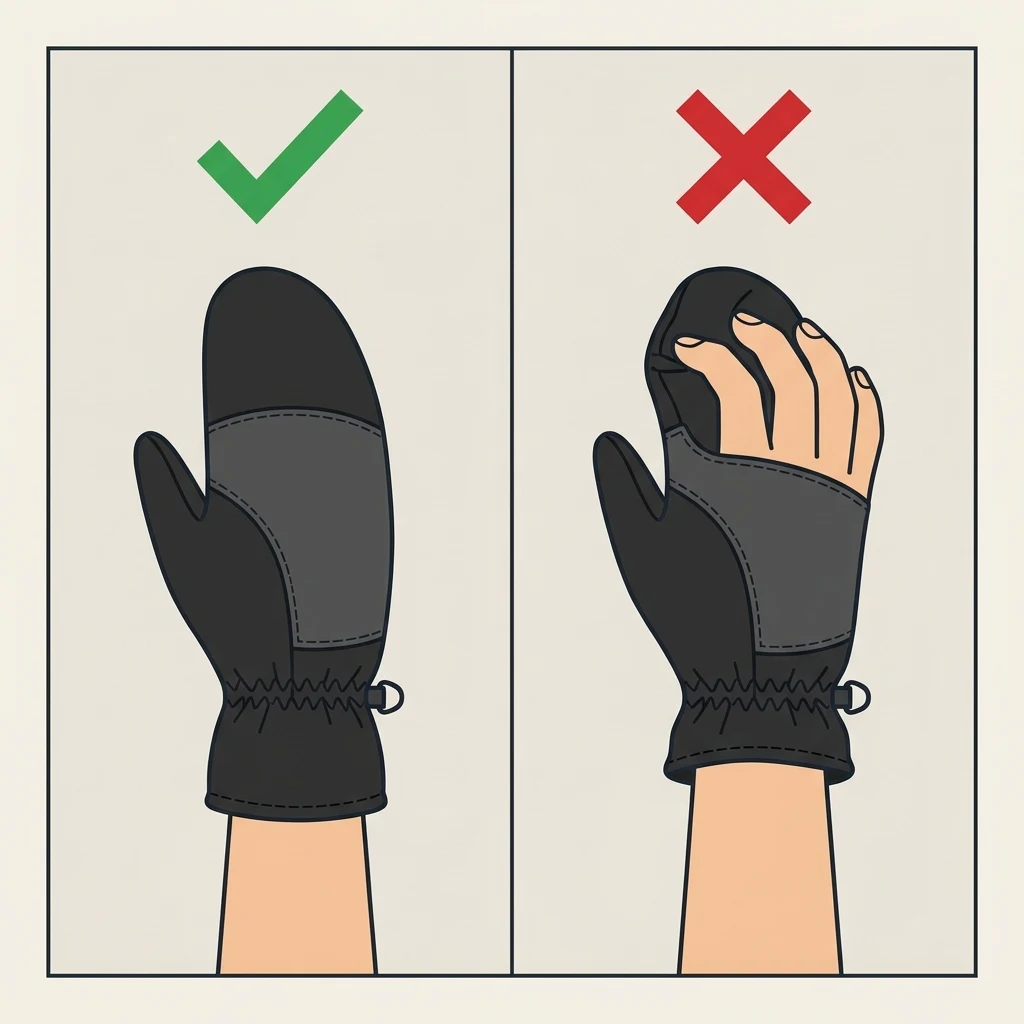
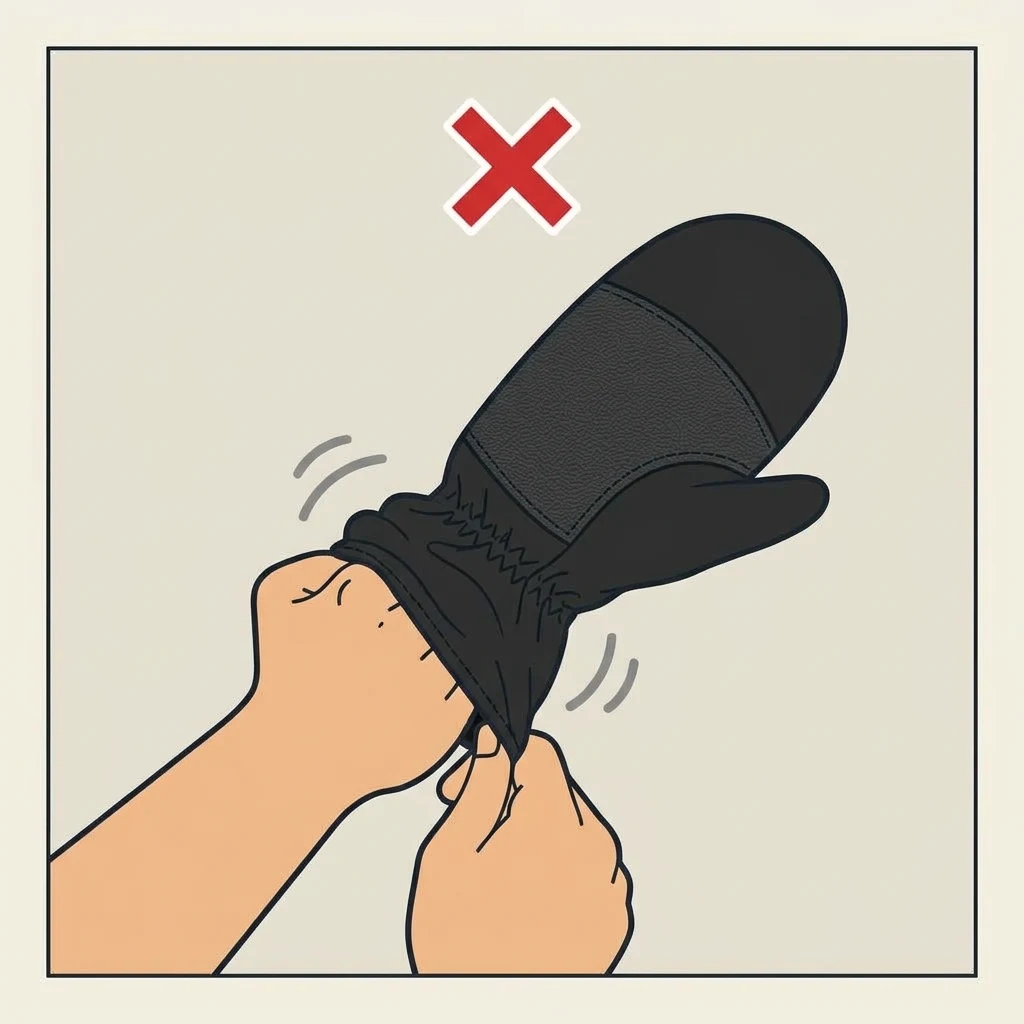
Guide des tailles sous les yeux de l'atelier, et planche d'essai des mitaines refaite
LE GUIDE DES TAILLES NE SE VOYAIT PAS LÀ OÙ L'ON COCHE. Dans la liste à
cocher, le titre du point mène à la page de sa planche — et cette page ne
montrait que les dessins. Le tableau n'apparaissait que sur la page du
protocole, que l'ouvrière n'ouvre pas en mesurant. La page de la planche
affiche maintenant, en grand et avant les dessins, l'image de référence du
point dont on vient (le lien porte `point=`) : quatre mitaines partagent la
planche, c'est le point qui porte le guide.

LE GUIDE EST HÉBERGÉ PAR LE MRP, plus lu au CDN de la boutique : c'est
l'outil de mesure de l'essai, il ne doit dépendre ni du site ni de la ligne.
Le texte du point ne renvoie plus à « lasclay.com » : il désigne l'image
ci-dessous et ses deux flèches, orange (longueur) et bleue (jointures).

LE PANNEAU 4 DE L'ESSAI MONTRAIT UNE MAIN QUI TRAVERSE LA MITAINE. Refait :
une personne qui n'arrive pas à l'enfiler, la main bloquée au poignet. Un
cinquième panneau montre ce que coûte une taille ratée : le colis renvoyé et
l'argent remboursé. Les planches acceptent donc plus de quatre panneaux
(quatre au moins, sans trou) ; bande, page et empreinte de cache suivent le
nombre réel.

Claude-Session: https://claude.ai/code/session_01954X9VVgP1YHDjc7WYAugY

diff --git a/mrp/pictos.js b/mrp/pictos.js
@@ -534,20 +534,28 @@ const panneau = (d, i, classe = 'pi-p') =>
 // leurs vignettes sont là — une série trouée se lit plus mal qu'un pictogramme.
 const DOSSIER = require('node:path').join(__dirname, 'statique', 'planches');
 
+// Combien de panneaux porte chaque planche dessinée. Quatre au moins — une
+// planche incomplète ne s'affiche pas —, davantage si le geste le demande :
+// l'essai des mitaines finit sur ce que coûte une taille ratée, le retour et le
+// remboursement, et le couper pour tenir en quatre effacerait la raison du test.
+const PANNEAUX = new Map();
 const DESSINS = (() => {
   const fs = require('node:fs');
   const vus = new Set();
   let fichiers = [];
   try { fichiers = fs.readdirSync(DOSSIER); } catch { return vus; }
   const cles = new Set([...Object.keys(PLANCHES),
-    ...fichiers.map(f => f.replace(/-\d(?:-mini)?\.webp$/, ''))]);
+    ...fichiers.map(f => f.replace(/-\d+(?:-mini)?\.webp$/, ''))]);
+  const present = (k, i) =>
+    fichiers.includes(`${k}-${i}.webp`) && fichiers.includes(`${k}-${i}-mini.webp`);
   for (const k of cles) {
-    const complet = [1, 2, 3, 4].every(i =>
-      fichiers.includes(`${k}-${i}.webp`) && fichiers.includes(`${k}-${i}-mini.webp`));
-    if (complet) vus.add(k);
+    let n = 0;
+    while (present(k, n + 1)) n++;
+    if (n >= 4) { vus.add(k); PANNEAUX.set(k, n); }
   }
   return vus;
 })();
+const etapes = (k) => Array.from({ length: PANNEAUX.get(k) }, (_, i) => i);
 
 // Les images gardent leur nom d'une génération à l'autre : sans empreinte, un
 // navigateur qui a déjà la planche garderait l'ancienne après une correction.
@@ -555,7 +563,7 @@ const VERSION_PL = (() => {
   const fs = require('node:fs');
   const h = require('node:crypto').createHash('sha256');
   for (const k of [...DESSINS].sort())
-    for (let i = 1; i <= 4; i++) {
+    for (let i = 1; i <= PANNEAUX.get(k); i++) {
       const f = require('node:path').join(DOSSIER, `${k}-${i}.webp`);
       h.update(k + i + fs.statSync(f).size + fs.statSync(f).mtimeMs);
     }
@@ -571,7 +579,7 @@ function planche(titre, { href = null } = {}) {
   const k = cle(titre);
   if (!k) return '';
   const dessine = DESSINS.has(k);
-  const p = PLANCHES[k] || (dessine ? [0, 1, 2, 3] : null);
+  const p = PLANCHES[k] || (dessine ? etapes(k) : null);
   if (!p) return '';
   const corps = p.map((d, i) => {
     const vue = dessine ? img(k, i + 1, true) : panneau(d, i);
@@ -595,11 +603,11 @@ function plancheBD(titre) {
   const k = cle(titre);
   if (!k) return '';
   const dessine = DESSINS.has(k);
-  const p = PLANCHES[k] || (dessine ? [0, 1, 2, 3] : null);
+  const p = PLANCHES[k] || (dessine ? etapes(k) : null);
   if (!p) return '';
   return `<ol class="bd">${p.map((d, i) => `<li class="bd-p" id="p${i + 1}">
     ${dessine ? img(k, i + 1, false) : panneau(d, i, 'pi-g')}</li>`).join('')}</ol>`;
 }
 
-module.exports = { DESSINS, VERSION_PL, PLANCHES, PAR_TITRE, RUPTURES, planche, plancheBD,
+module.exports = { DESSINS, PANNEAUX, VERSION_PL, PLANCHES, PAR_TITRE, RUPTURES, planche, plancheBD,
   cle, empreinte };

diff --git a/mrp/tests/visuel.js b/mrp/tests/visuel.js
@@ -357,9 +357,29 @@ console.log('\n  Silhouettes, anneaux et images\n');
   // geste manquant est justement celui qu'on ne devine pas.
   const dos = require('node:path').join(__dirname, '..', 'statique', 'planches');
   const sur = fs.existsSync(dos) ? fs.readdirSync(dos) : [];
-  t('toute planche annoncée dessinée a ses quatre panneaux et ses vignettes',
-    [...PIC.DESSINS].every(k => [1, 2, 3, 4].every(i =>
-      sur.includes(`${k}-${i}.webp`) && sur.includes(`${k}-${i}-mini.webp`))));
+  t('toute planche annoncée dessinée a au moins quatre panneaux et leurs vignettes',
+    [...PIC.DESSINS].every(k => PIC.PANNEAUX.get(k) >= 4
+      && Array.from({ length: PIC.PANNEAUX.get(k) }, (_, i) => i + 1).every(i =>
+        sur.includes(`${k}-${i}.webp`) && sur.includes(`${k}-${i}-mini.webp`))));
+
+  // L'essai des mitaines finit sur ce que coûte une taille ratée : le retour
+  // et le remboursement. Ce cinquième panneau ne doit pas être coupé par une
+  // bande ou une page restées à quatre.
+  const essai = 'Essai par une personne de chaque taille, mains mesurées';
+  t('une planche à cinq panneaux les montre tous, dans la bande et sur la page',
+    PIC.PANNEAUX.get('essai_mitaine') === 5
+    && (PIC.planche(essai).match(/class="pi-i"/g) || []).length === 5
+    && PIC.plancheBD(essai).includes('id="p5"'));
+
+  // Le guide des tailles vit sur le POINT, pas sur la planche. La liste à
+  // cocher mène à la page de la planche : si cette page ne montre que les
+  // dessins, l'ouvrière n'a pas le tableau sous les yeux au moment de mesurer.
+  const GUIDE = 'https://cdn.shopify.com/s/files/guide.png';
+  const pg = V.vuePlanche({ user: { nom: 'x', role: 'atelier' }, msg: {},
+    point: { id: 1, titre: essai, detail: '', consequence: '', schema_url: GUIDE },
+    retour: { href: '/qualite', texte: 'Revenir' } });
+  t('la page de la planche montre l\'image de référence du point',
+    pg.includes('class="bd-schema"') && pg.includes(GUIDE));
 
   // Le nom du fichier ne change pas quand on corrige un dessin : sans
   // empreinte, l'atelier garderait la planche fausse en cache.

diff --git a/mrp/server.js b/mrp/server.js
@@ -186,6 +186,12 @@ const STATIQUES = {
   // intacte, et reste la source. Comme les planches, c'est une donnée de
   // production, pas un cache.
   '/schema/bandeau-tuque.png': ['image/png', 'public/schema-bandeau-tuque.png'],
+  // Le guide des tailles des mitaines, tel que publié sur la boutique. Copié
+  // ici plutôt que lu au CDN : c'est l'outil de mesure de l'atelier pendant
+  // l'essai, il doit s'afficher sans dépendre du site. S'il change en ligne,
+  // on le recopie — le texte du point porte les mêmes fourchettes.
+  '/schema/guide-tailles-mitaines.webp': ['image/webp',
+    'public/schema-guide-tailles-mitaines.webp'],
 };
 
 // Les planches d'instruction, servies par nom. Le nom ne change pas d'une
@@ -1095,8 +1101,16 @@ async function router(req, res, url, user) {
       if (!PIC.PLANCHES[m[1]] && !PIC.DESSINS.has(m[1]))
         return vers(res, '/qualite?err='
           + encodeURIComponent('Planche inconnue.'));
-      const point = db.prepare(`SELECT titre, detail, consequence FROM qc_points`)
-        .all().find((q) => PIC.cle(q.titre) === m[1]);
+      // Le point précis dont on vient, quand le lien le nomme : quatre mitaines
+      // partagent la planche de l'essai, et c'est le point — pas la planche —
+      // qui porte l'image de référence (le guide des tailles). Sans lui, le
+      // premier point du titre qui en a une, puis le premier tout court.
+      const tous = db.prepare(
+        `SELECT id, titre, detail, consequence, schema_url FROM qc_points`)
+        .all().filter((q) => PIC.cle(q.titre) === m[1]);
+      const voulu = Number(q.get('point')) || 0;
+      const point = tous.find((x) => x.id === voulu)
+        || tous.find((x) => String(x.schema_url || '').trim()) || tous[0];
       if (!point) return vers(res, '/qualite?err='
         + encodeURIComponent("Ce geste n'est rattaché à aucun point de contrôle."));
       const r = String(q.get('retour') || '');

diff --git a/mrp/vues.js b/mrp/vues.js
@@ -1350,8 +1350,8 @@ function vueQCOrdre({ user, msg, ordre, lignes, cat = 'tous', vue = 'cartes',
                 $c.unite ? ' ' + e($c.unite) : ''}</span>`
                 )(U.convertirMesure(q.valeur, q.unite, user.unites)) : ''}`;
               return k
-                ? `<a class="ck-t ck-td" href="/qualite/planche/${k}?retour=${
-                    encodeURIComponent(lien(l))}"
+                ? `<a class="ck-t ck-td" href="/qualite/planche/${k}?point=${
+                    q.id}&amp;retour=${encodeURIComponent(lien(l))}"
                     title="Voir le geste en images">${dedans}
                     <i class="ck-pl" aria-hidden="true"></i></a>`
                 : `<span class="ck-t">${dedans}</span>`;
@@ -1460,6 +1460,7 @@ function vuePlanche({ user, msg, point, retour }) {
   </div></div>
   ${point.consequence
     ? `<p class="qc-cons bd-cons">Sinon : ${e(point.consequence)}</p>` : ''}
+  <div class="bd-schema">${schemaQC(point, TAILLES.plein)}</div>
   ${PIC.plancheBD(point.titre)}
   <p class="bd-pied"><a class="btn sec" href="${e(retour.href)}">Revenir</a></p>`;
   return page({ titre: point.titre, user, corps, actif: 'qualite', msg });

diff --git a/mrp/public/style.css b/mrp/public/style.css
@@ -1651,6 +1651,9 @@ a.pi-l:hover .pi-i{outline:2px solid #17140f;outline-offset:-2px}
 .bd-p{margin:0;scroll-margin-top:76px}
 .pi-g{width:min(100%,460px);height:auto;display:block}
 .bd-cons{margin:10px 0 0}
+/* Sur la page de la planche, l'image de référence du point se lit en grand :
+   le guide des tailles doit se lire à l'atelier sans l'ouvrir à part. */
+.bd-schema .qc-schema{max-width:720px;margin:16px 0 0;background:#fff}
 .bd-pied{margin:22px 0 0;text-align:center}
 @media (max-width:620px){ .pi-p{width:126px;height:100px} }
 
